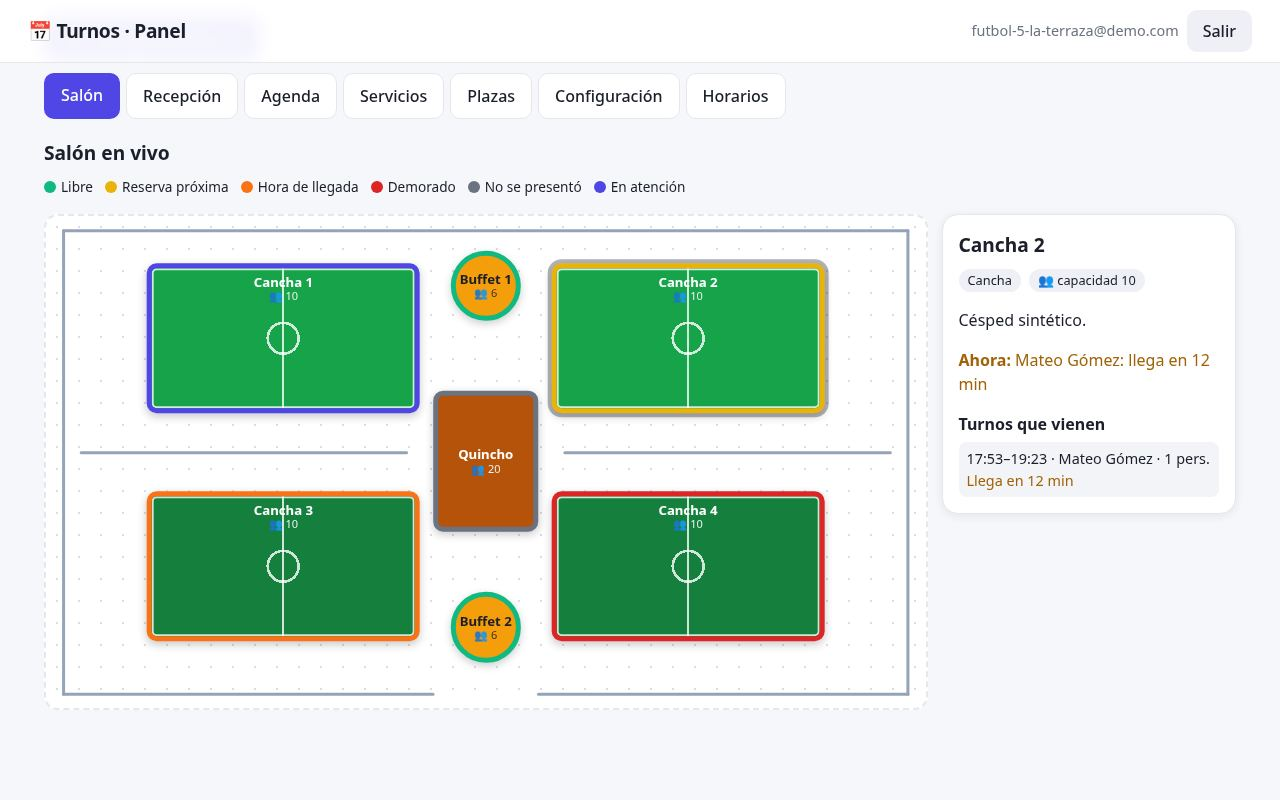
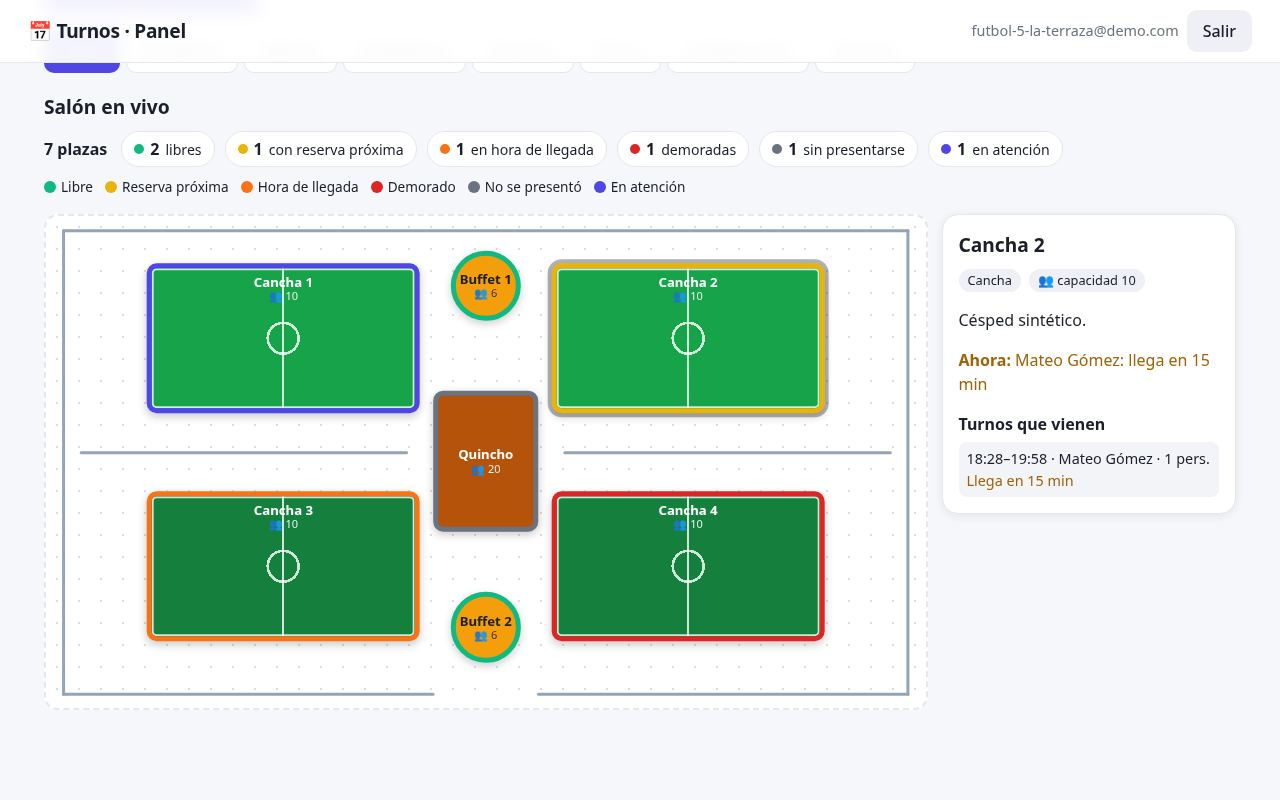
Informe actualizado: estadísticas, filtros, horarios por franja, vista de celular y capturas nuevas

diff --git a/public/informe.html b/public/informe.html
@@ -24,14 +24,14 @@
       <p>Informe del proyecto · Hackatón Donweb Day. Las consultas por WhatsApp, teléfono o en persona se pierden; esta plataforma las convierte en turnos organizados para cualquier rubro.</p>
     </section>
     <h2>Páginas disponibles</h2>
-    <div class="tarjeta" style="padding:0;overflow-x:auto"><table><thead><tr><th>Dirección</th><th>Página</th><th>Contenido</th></tr></thead><tbody><tr><td data-label="Dirección"><code>/</code></td><td data-label="Página"><strong>Inicio</strong></td><td data-label="Contenido">Buscador, ofertas destacadas (publicidad de prueba), filtros por rubro, comercios y “Mis turnos”.</td></tr><tr><td data-label="Dirección"><code>/?c=<comercio></code></td><td data-label="Página"><strong>Página del comercio</strong></td><td data-label="Contenido">Portada, datos, horarios y servicios con foto, precio y ofertas; reserva.</td></tr><tr><td data-label="Dirección"><code>/?ingresar=1</code></td><td data-label="Página"><strong>Ingreso de clientes</strong></td><td data-label="Contenido">Acceso por usuario y contraseña, con cuentas de prueba.</td></tr><tr><td data-label="Dirección"><code>/chat.html</code></td><td data-label="Página"><strong>Asistente</strong></td><td data-label="Contenido">Chat con apariencia de WhatsApp, identificado por teléfono.</td></tr><tr><td data-label="Dirección"><code>/panel.html</code></td><td data-label="Página"><strong>Panel del comercio</strong></td><td data-label="Contenido">Salón, Recepción, Agenda, Servicios, Plazas, Configuración y Horarios.</td></tr><tr><td data-label="Dirección"><code>/informe.html</code></td><td data-label="Página"><strong>Informe</strong></td><td data-label="Contenido">Esta página.</td></tr></tbody></table></div>
+    <div class="tarjeta" style="padding:0;overflow-x:auto"><table><thead><tr><th>Dirección</th><th>Página</th><th>Contenido</th></tr></thead><tbody><tr><td data-label="Dirección"><code>/</code></td><td data-label="Página"><strong>Inicio</strong></td><td data-label="Contenido">Buscador, ofertas destacadas (publicidad de prueba), filtro por tipo de comercio, comercios y “Mis turnos”.</td></tr><tr><td data-label="Dirección"><code>/?c=<comercio></code></td><td data-label="Página"><strong>Página del comercio</strong></td><td data-label="Contenido">Portada, datos, horarios y servicios con foto, precio y ofertas; reserva.</td></tr><tr><td data-label="Dirección"><code>/?ingresar=1</code></td><td data-label="Página"><strong>Ingreso de clientes</strong></td><td data-label="Contenido">Acceso por usuario y contraseña, con cuentas de prueba.</td></tr><tr><td data-label="Dirección"><code>/chat.html</code></td><td data-label="Página"><strong>Asistente</strong></td><td data-label="Contenido">Chat con apariencia de WhatsApp, identificado por teléfono.</td></tr><tr><td data-label="Dirección"><code>/panel.html</code></td><td data-label="Página"><strong>Panel del comercio</strong></td><td data-label="Contenido">Salón, Recepción, Agenda, Estadísticas, Servicios, Plazas, Configuración y Horarios.</td></tr><tr><td data-label="Dirección"><code>/informe.html</code></td><td data-label="Página"><strong>Informe</strong></td><td data-label="Contenido">Esta página.</td></tr></tbody></table></div>
     <h2>Funciones</h2>
-    <div class="bloques"><div class="tarjeta"><h3>Para clientes</h3><ul><li>Búsqueda por texto, rubro y sinónimos (“corte de pelo”, “mecánico”, “perro”).</li><li>Orden por cercanía escribiendo la dirección o el barrio.</li><li>Ofertas destacadas y comercios de 11 rubros: cancha, restaurante, peluquería, consultorio, pilates, taller, gomería, lavadero, software, veterinaria y spa.</li><li>Página del comercio con portada, fotos, características, horarios y precios fijos.</li><li>Reserva por servicio, día, cantidad de personas y horario, con asignación automática de la plaza (mesa, sillón, cancha, box…).</li><li>Mis turnos con plaza, dirección y cancelación.</li><li>Registro e ingreso con usuario y contraseña. Interfaz adaptada a celular y PC.</li></ul></div><div class="tarjeta"><h3>Para comercios</h3><ul><li>Salón en vivo con seis estados por color: libre, reserva próxima, hora de llegada, demorado, no se presentó y en atención.</li><li>Recepción: buscar al cliente y ver a qué plaza ir y cuánto tarda o se demora.</li><li>Agenda del día con estados y acciones (llegó, atendido, cancelar).</li><li>Estadísticas: turnos totales, ocupados, que faltan, cancelados y ausentes; ocupación, próximos 7 días, servicios y plazas más usados, y detalle filtrable.</li><li>Catálogo de servicios con imagen, precio, duración, características, tipo de plaza y ofertas resaltadas.</li><li>Plazas con forma, tamaño, color, descripción y capacidad; editor del salón con arrastre, cambio de tamaño y líneas guía.</li><li>Perfil con portada, rubro libre con autocompletado, horarios por día y tiempos configurables (aviso, tolerancia, no se presentó).</li><li>Plantillas por rubro para cargar un comercio en segundos.</li></ul></div><div class="tarjeta"><h3>Asistente con IA</h3><ul><li>Identifica al cliente por su teléfono y conoce la fecha y la hora actuales.</li><li>Busca turnos por servicio y día; si no hay lugar propone el próximo día disponible.</li><li>Reserva, lista y cancela turnos con confirmación previa.</li><li>Informa precios fijos tomados del sistema, sin inventar datos, y ofrece respuestas como botones.</li></ul></div><div class="tarjeta"><h3>Plataforma</h3><ul><li>Reserva atómica: no se puede reservar dos veces la misma plaza.</li><li>Límite de consultas, claves fuera del repositorio y 53 tests automáticos.</li><li>Desplegada en el Cloud Server de Donweb. Ingreso con Google y ubicación automática implementados, pendientes de certificado SSL.</li></ul></div></div>
+    <div class="bloques"><div class="tarjeta"><h3>Para clientes</h3><ul><li>Búsqueda por texto, rubro y sinónimos (“corte de pelo”, “mecánico”, “perro”) y filtro por tipo de comercio, oculto hasta pulsar el botón.</li><li>Orden por cercanía escribiendo la dirección o el barrio.</li><li>Ofertas destacadas y comercios de 11 rubros: cancha, restaurante, peluquería, consultorio, pilates, taller, gomería, lavadero, software, veterinaria y spa.</li><li>Página del comercio con portada, fotos, características, horarios y precios fijos.</li><li>Reserva por servicio, día, cantidad de personas y horario, con asignación automática de la plaza (mesa, sillón, cancha, box…).</li><li>Horarios ordenados por hora y divididos en mañana, tarde y noche; si hoy no hay lugar, salta al primer día disponible.</li><li>Mis turnos con plaza, dirección y cancelación. Registro e ingreso con usuario y contraseña.</li><li>Interfaz para celular y PC: botones de 44 px, nada oculto, esqueletos de carga, avisos de confirmación y estados vacíos con salida.</li></ul></div><div class="tarjeta"><h3>Para comercios</h3><ul><li>Salón en vivo con resumen y seis estados por color: libre, reserva próxima, hora de llegada, demorado, no se presentó y en atención. En celular, lista por estado o mapa.</li><li>Estadísticas: turnos totales, ocupados, que faltan, cancelados y ausentes; ocupación, próximos 7 días, servicios y plazas más usados, y detalle filtrable (hoy, 7 días o todo).</li><li>Recepción: buscar al cliente y ver a qué plaza ir y cuánto tarda o se demora.</li><li>Agenda del día con estados y acciones (llegó, atendido, cancelar).</li><li>Catálogo de servicios con imagen, precio, duración, características, tipo de plaza y ofertas resaltadas.</li><li>Plazas con forma, tamaño, color, descripción y capacidad; editor del salón con arrastre, cambio de tamaño y líneas guía.</li><li>Perfil con portada, rubro libre con autocompletado, horarios por día y tiempos configurables (aviso, tolerancia, no se presentó).</li><li>Plantillas por rubro para cargar un comercio en segundos.</li></ul></div><div class="tarjeta"><h3>Asistente con IA</h3><ul><li>Identifica al cliente por su teléfono y conoce la fecha y la hora actuales.</li><li>Busca turnos por servicio y día; si no hay lugar propone el próximo día disponible.</li><li>Reserva, lista y cancela turnos con confirmación previa.</li><li>Consulta ofertas, precios fijos y horarios de atención en el sistema, sin inventar datos, y ofrece respuestas como botones.</li></ul></div><div class="tarjeta"><h3>Plataforma</h3><ul><li>Reserva atómica: no se puede reservar dos veces la misma plaza.</li><li>Límite de consultas, claves fuera del repositorio y 58 tests automáticos.</li><li>Desplegada en el Cloud Server de Donweb. Ingreso con Google y ubicación automática implementados, pendientes de certificado SSL.</li></ul></div></div>
     <h2>Lo que ofrecemos</h2>
-    <h3>Para clientes</h3><div class="figuras "><figure><img src="/informe/01-inicio.jpg" alt="Inicio con buscador, ofertas destacadas y rubros" loading="lazy"><figcaption>Inicio con buscador, ofertas destacadas y rubros</figcaption></figure><figure><img src="/informe/02-comercios.jpg" alt="Comercios de 11 rubros con foto, distancia y servicios" loading="lazy"><figcaption>Comercios de 11 rubros con foto, distancia y servicios</figcaption></figure><figure><img src="/informe/03-comercio.jpg" alt="Página del comercio con portada, ofertas y servicios con foto" loading="lazy"><figcaption>Página del comercio con portada, ofertas y servicios con foto</figcaption></figure><figure><img src="/informe/04-reserva.jpg" alt="Reserva: personas, día y horarios libres" loading="lazy"><figcaption>Reserva: personas, día y horarios libres</figcaption></figure></div>
-    <h3>Para comercios</h3><div class="figuras "><figure><img src="/informe/05-salon.jpg" alt="Salón en vivo: estados por color y detalle de la plaza" loading="lazy"><figcaption>Salón en vivo: estados por color y detalle de la plaza</figcaption></figure><figure><img src="/informe/06-recepcion.jpg" alt="Recepción: a qué plaza ir y estado de llegada" loading="lazy"><figcaption>Recepción: a qué plaza ir y estado de llegada</figcaption></figure><figure><img src="/informe/07-servicios.jpg" alt="Catálogo de servicios con imagen, precio y oferta" loading="lazy"><figcaption>Catálogo de servicios con imagen, precio y oferta</figcaption></figure><figure><img src="/informe/08-editor.jpg" alt="Editor del salón: plazas, formas, tamaños y líneas guía" loading="lazy"><figcaption>Editor del salón: plazas, formas, tamaños y líneas guía</figcaption></figure></div>
+    <h3>Para clientes</h3><div class="figuras "><figure><img src="/informe/01-inicio.jpg" alt="Inicio con buscador, ofertas destacadas y filtros" loading="lazy"><figcaption>Inicio con buscador, ofertas destacadas y filtros</figcaption></figure><figure><img src="/informe/02-comercios.jpg" alt="Comercios de 11 rubros con foto, distancia y servicios" loading="lazy"><figcaption>Comercios de 11 rubros con foto, distancia y servicios</figcaption></figure><figure><img src="/informe/03-comercio.jpg" alt="Página del comercio con portada, ofertas y servicios con foto" loading="lazy"><figcaption>Página del comercio con portada, ofertas y servicios con foto</figcaption></figure><figure><img src="/informe/18-horarios.jpg" alt="Horarios ordenados por hora, en mañana y tarde" loading="lazy"><figcaption>Horarios ordenados por hora, en mañana y tarde</figcaption></figure><figure><img src="/informe/04-reserva.jpg" alt="Reserva: personas, día y horarios libres" loading="lazy"><figcaption>Reserva: personas, día y horarios libres</figcaption></figure></div>
+    <h3>Para comercios</h3><div class="figuras "><figure><img src="/informe/05-salon.jpg" alt="Salón en vivo: resumen, estados por color y detalle de la plaza" loading="lazy"><figcaption>Salón en vivo: resumen, estados por color y detalle de la plaza</figcaption></figure><figure><img src="/informe/15-estadisticas.jpg" alt="Estadísticas: turnos totales, ocupados y que faltan" loading="lazy"><figcaption>Estadísticas: turnos totales, ocupados y que faltan</figcaption></figure><figure><img src="/informe/06-recepcion.jpg" alt="Recepción: a qué plaza ir y estado de llegada" loading="lazy"><figcaption>Recepción: a qué plaza ir y estado de llegada</figcaption></figure><figure><img src="/informe/07-servicios.jpg" alt="Catálogo de servicios con imagen, precio y oferta" loading="lazy"><figcaption>Catálogo de servicios con imagen, precio y oferta</figcaption></figure><figure><img src="/informe/08-editor.jpg" alt="Editor del salón: plazas, formas, tamaños y líneas guía" loading="lazy"><figcaption>Editor del salón: plazas, formas, tamaños y líneas guía</figcaption></figure></div>
     <h3>Una distribución para cada rubro</h3><div class="figuras cuatro"><figure><img src="/informe/09-restaurante.jpg" alt="Restaurante: mesas, barra y terraza" loading="lazy"><figcaption>Restaurante: mesas, barra y terraza</figcaption></figure><figure><img src="/informe/10-taller.jpg" alt="Taller mecánico: elevadores, fosas y box" loading="lazy"><figcaption>Taller mecánico: elevadores, fosas y box</figcaption></figure><figure><img src="/informe/11-spa.jpg" alt="Spa: cabinas, hidromasaje y manicuría" loading="lazy"><figcaption>Spa: cabinas, hidromasaje y manicuría</figcaption></figure><figure><img src="/informe/12-software.jpg" alt="Estudio de software: salas y escritorios" loading="lazy"><figcaption>Estudio de software: salas y escritorios</figcaption></figure></div>
-    <h3>En celular</h3><div class="figuras movil"><figure><img src="/informe/13-movil-inicio.jpg" alt="Inicio en celular" loading="lazy"><figcaption>Inicio en celular</figcaption></figure><figure><img src="/informe/14-chat.jpg" alt="Asistente estilo WhatsApp" loading="lazy"><figcaption>Asistente estilo WhatsApp</figcaption></figure></div>
+    <h3>En celular</h3><div class="figuras movil"><figure><img src="/informe/13-movil-inicio.jpg" alt="Inicio en celular" loading="lazy"><figcaption>Inicio en celular</figcaption></figure><figure><img src="/informe/17-movil-filtros.jpg" alt="Filtro por tipo de comercio" loading="lazy"><figcaption>Filtro por tipo de comercio</figcaption></figure><figure><img src="/informe/16-movil-salon.jpg" alt="Salón en celular: lista por estado" loading="lazy"><figcaption>Salón en celular: lista por estado</figcaption></figure><figure><img src="/informe/14-chat.jpg" alt="Asistente estilo WhatsApp" loading="lazy"><figcaption>Asistente estilo WhatsApp</figcaption></figure></div>
   </main>
   <footer class="pie"><span>📅 <strong>Turnos</strong> · Reservas para cualquier comercio</span><span class="suave">Demo del Hackatón Donweb Day · Datos y publicidad de prueba</span></footer>
 </body>

diff --git a/INFORME.md b/INFORME.md
@@ -8,29 +8,30 @@ Las consultas por WhatsApp, teléfono o en persona se pierden. Esta plataforma l
 
 | Dirección | Página | Contenido |
 |---|---|---|
-| `/` | **Inicio** | Buscador, ofertas destacadas (publicidad de prueba), filtros por rubro, comercios y “Mis turnos”. |
+| `/` | **Inicio** | Buscador, ofertas destacadas (publicidad de prueba), filtro por tipo de comercio, comercios y “Mis turnos”. |
 | `/?c=<comercio>` | **Página del comercio** | Portada, datos, horarios y servicios con foto, precio y ofertas; reserva. |
 | `/?ingresar=1` | **Ingreso de clientes** | Acceso por usuario y contraseña, con cuentas de prueba. |
 | `/chat.html` | **Asistente** | Chat con apariencia de WhatsApp, identificado por teléfono. |
-| `/panel.html` | **Panel del comercio** | Salón, Recepción, Agenda, Servicios, Plazas, Configuración y Horarios. |
+| `/panel.html` | **Panel del comercio** | Salón, Recepción, Agenda, Estadísticas, Servicios, Plazas, Configuración y Horarios. |
 | `/informe.html` | **Informe** | Esta página. |
 
 ## Funciones
 
 ### Para clientes
-- Búsqueda por texto, rubro y sinónimos (“corte de pelo”, “mecánico”, “perro”).
+- Búsqueda por texto, rubro y sinónimos (“corte de pelo”, “mecánico”, “perro”) y filtro por tipo de comercio, oculto hasta pulsar el botón.
 - Orden por cercanía escribiendo la dirección o el barrio.
 - Ofertas destacadas y comercios de 11 rubros: cancha, restaurante, peluquería, consultorio, pilates, taller, gomería, lavadero, software, veterinaria y spa.
 - Página del comercio con portada, fotos, características, horarios y precios fijos.
 - Reserva por servicio, día, cantidad de personas y horario, con asignación automática de la plaza (mesa, sillón, cancha, box…).
-- Mis turnos con plaza, dirección y cancelación.
-- Registro e ingreso con usuario y contraseña. Interfaz adaptada a celular y PC.
+- Horarios ordenados por hora y divididos en mañana, tarde y noche; si hoy no hay lugar, salta al primer día disponible.
+- Mis turnos con plaza, dirección y cancelación. Registro e ingreso con usuario y contraseña.
+- Interfaz para celular y PC: botones de 44 px, nada oculto, esqueletos de carga, avisos de confirmación y estados vacíos con salida.
 
 ### Para comercios
-- Salón en vivo con seis estados por color: libre, reserva próxima, hora de llegada, demorado, no se presentó y en atención.
+- Salón en vivo con resumen y seis estados por color: libre, reserva próxima, hora de llegada, demorado, no se presentó y en atención. En celular, lista por estado o mapa.
+- Estadísticas: turnos totales, ocupados, que faltan, cancelados y ausentes; ocupación, próximos 7 días, servicios y plazas más usados, y detalle filtrable (hoy, 7 días o todo).
 - Recepción: buscar al cliente y ver a qué plaza ir y cuánto tarda o se demora.
 - Agenda del día con estados y acciones (llegó, atendido, cancelar).
-- Estadísticas: turnos totales, ocupados, que faltan, cancelados y ausentes; ocupación, próximos 7 días, servicios y plazas más usados, y detalle filtrable.
 - Catálogo de servicios con imagen, precio, duración, características, tipo de plaza y ofertas resaltadas.
 - Plazas con forma, tamaño, color, descripción y capacidad; editor del salón con arrastre, cambio de tamaño y líneas guía.
 - Perfil con portada, rubro libre con autocompletado, horarios por día y tiempos configurables (aviso, tolerancia, no se presentó).
@@ -40,19 +41,19 @@ Las consultas por WhatsApp, teléfono o en persona se pierden. Esta plataforma l
 - Identifica al cliente por su teléfono y conoce la fecha y la hora actuales.
 - Busca turnos por servicio y día; si no hay lugar propone el próximo día disponible.
 - Reserva, lista y cancela turnos con confirmación previa.
-- Informa precios fijos tomados del sistema, sin inventar datos, y ofrece respuestas como botones.
+- Consulta ofertas, precios fijos y horarios de atención en el sistema, sin inventar datos, y ofrece respuestas como botones.
 
 ### Plataforma
 - Reserva atómica: no se puede reservar dos veces la misma plaza.
-- Límite de consultas, claves fuera del repositorio y 53 tests automáticos.
+- Límite de consultas, claves fuera del repositorio y 58 tests automáticos.
 - Desplegada en el Cloud Server de Donweb. Ingreso con Google y ubicación automática implementados, pendientes de certificado SSL.
 
 ## Lo que ofrecemos
 
 ### Para clientes
 
-![Inicio con buscador, ofertas destacadas y rubros](public/informe/01-inicio.jpg)
-*Inicio con buscador, ofertas destacadas y rubros*
+![Inicio con buscador, ofertas destacadas y filtros](public/informe/01-inicio.jpg)
+*Inicio con buscador, ofertas destacadas y filtros*
 
 ![Comercios de 11 rubros con foto, distancia y servicios](public/informe/02-comercios.jpg)
 *Comercios de 11 rubros con foto, distancia y servicios*
@@ -60,13 +61,19 @@ Las consultas por WhatsApp, teléfono o en persona se pierden. Esta plataforma l
 ![Página del comercio con portada, ofertas y servicios con foto](public/informe/03-comercio.jpg)
 *Página del comercio con portada, ofertas y servicios con foto*
 
+![Horarios ordenados por hora, en mañana y tarde](public/informe/18-horarios.jpg)
+*Horarios ordenados por hora, en mañana y tarde*
+
 ![Reserva: personas, día y horarios libres](public/informe/04-reserva.jpg)
 *Reserva: personas, día y horarios libres*
 
 ### Para comercios
 
-![Salón en vivo: estados por color y detalle de la plaza](public/informe/05-salon.jpg)
-*Salón en vivo: estados por color y detalle de la plaza*
+![Salón en vivo: resumen, estados por color y detalle de la plaza](public/informe/05-salon.jpg)
+*Salón en vivo: resumen, estados por color y detalle de la plaza*
+
+![Estadísticas: turnos totales, ocupados y que faltan](public/informe/15-estadisticas.jpg)
+*Estadísticas: turnos totales, ocupados y que faltan*
 
 ![Recepción: a qué plaza ir y estado de llegada](public/informe/06-recepcion.jpg)
 *Recepción: a qué plaza ir y estado de llegada*
@@ -95,6 +102,12 @@ Las consultas por WhatsApp, teléfono o en persona se pierden. Esta plataforma l
 
 ![Inicio en celular](public/informe/13-movil-inicio.jpg)
 *Inicio en celular*
+
+![Filtro por tipo de comercio](public/informe/17-movil-filtros.jpg)
+*Filtro por tipo de comercio*
+
+![Salón en celular: lista por estado](public/informe/16-movil-salon.jpg)
+*Salón en celular: lista por estado*
 
 ![Asistente estilo WhatsApp](public/informe/14-chat.jpg)
 *Asistente estilo WhatsApp*

diff --git a/README.md b/README.md
@@ -20,7 +20,7 @@ Requiere Node 26.12+ (usa `node:sqlite`, sin dependencias nativas).
 npm ci
 npm run semilla      # carga 11 comercios de ejemplo con fotos y movimiento en vivo (necesita internet la primera vez)
 npm start            # http://localhost:3000
-npm test             # 50 tests
+npm test             # 58 tests
 ```
 
 Variables en `~/.env` (nunca dentro del proyecto): `OPENAI_API_KEY` (asistente), `OPENAI_MODEL` (opcional), `SESSION_SECRET`, `PORT`, `DB_PATH`, `UPLOAD_DIR`.
